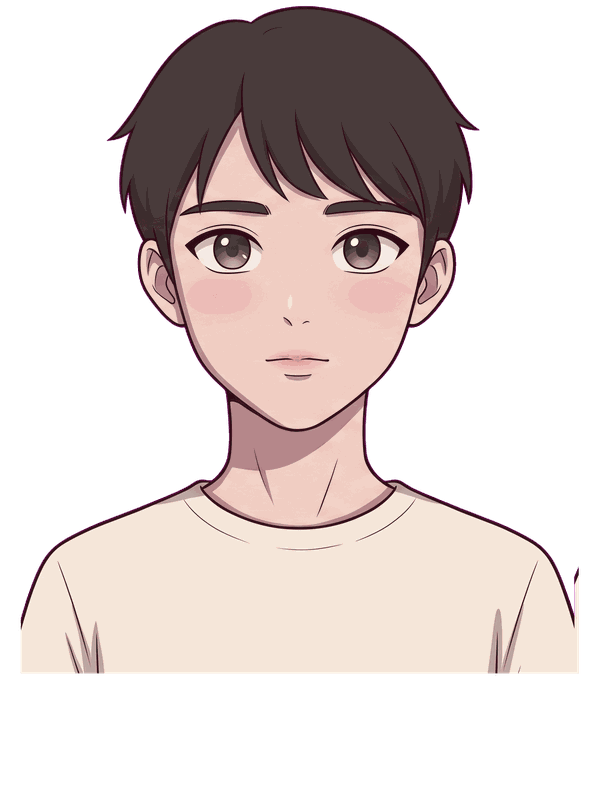
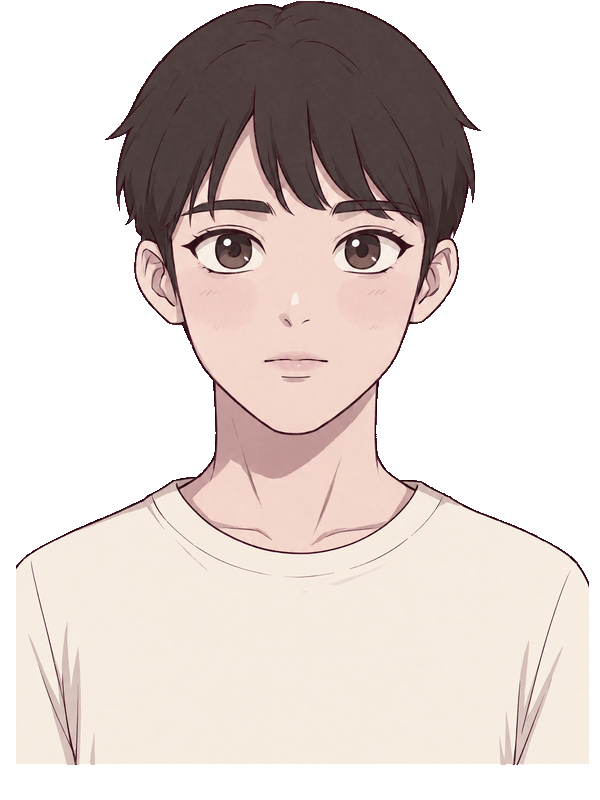
[char] 남 주인공 정본 neutral = 후보 A a(옛 아홉과 같은 얼굴 자리·크기 · 옛 판 _old) · fit_portrait --match-min · 주문 ① 모자란 낯 여섯 ② 장난감 턴어라운드(팔 45° · 틈)

diff --git a/tools/char/fit_portrait.py b/tools/char/fit_portrait.py
@@ -120,7 +120,7 @@ def clear_pockets(rgb, bg, tol):
     return out
 
 
-def crop_to_match(im, orig_path):
+def crop_to_match(im, orig_path, min_ncc=0.9):
     """«옷만 바꾼 같은 낯»을 원래 초상과 얼굴 자리·크기가 같게 자른다 — --match <원래 초상.png> 일 때만.
 
     ★ 2026-10-09 앞치마 판 낯 넷: Higgsfield 가 몸을 더 넣어 얼굴이 원래보다 2~10% 작게 왔다.
@@ -153,8 +153,9 @@ def crop_to_match(im, orig_path):
     x, y, w, h = (lx - bx0) / s, (ly - by0) / s, ow / s, oh / s
     print('얼굴 맞춤(%s): NCC %.3f · 배율 %.3f(폭 맞춤 %.3f → 얼굴 %+.0f%%) · 자를 네모 x %.0f..%.0f y %.0f..%.0f'
           % (os.path.basename(orig_path), sc, s, base, (s / base - 1) * 100, x, x + w, y, y + h))
-    if sc < 0.9:
-        raise SystemExit('⛔ 얼굴이 원래 초상과 안 겹친다(NCC %.3f < 0.9) — 표정이 다른 그림인가?' % sc)
+    # 10-10 문턱을 열쇠로 — 옷만 바꾼 같은 그림은 0.95 언저리, «같은 사람을 새로 그린» 판(남 정본 A)은 0.84 언저리였다
+    if sc < min_ncc:
+        raise SystemExit('⛔ 얼굴이 원래 초상과 안 겹친다(NCC %.3f < %.2f) — 표정이 다른 그림인가? 같은 사람을 새로 그린 판이면 --match-min 으로 낮춘다' % (sc, min_ncc))
     canvas = Image.new('RGB', (round(w), round(h)), (255, 255, 255))
     canvas.paste(im, (round(-x), round(-y)))
     return canvas.resize((ow, oh), Image.LANCZOS), (ow, oh)
@@ -231,7 +232,8 @@ def main():
     im = Image.open(src).convert('RGB')
     match = sys.argv[sys.argv.index('--match') + 1] if '--match' in sys.argv else None
     if match:
-        im, (ow, oh) = crop_to_match(im, match)
+        mn = float(sys.argv[sys.argv.index('--match-min') + 1]) if '--match-min' in sys.argv else 0.9
+        im, (ow, oh) = crop_to_match(im, match, mn)
     rgb = np.asarray(im)
     bg = edge_background(rgb, tol)
     print('배경 퍼뜨림 허용 %d' % tol)

diff --git a/docs/handoff/char-male-hero-plan-20261010.md b/docs/handoff/char-male-hero-plan-20261010.md
@@ -500,3 +500,173 @@
 - 턴어라운드 고름 → 칸 넷(같은 정사각 · 같은 축척 · 같은 바닥선 — 몬이 b 자르기와 같은 법) → Meshy multi-image · Tripo multiview 두 판 → G2(g2_check) → 고른 판 앞=+Z(glb_face_z) → rig 1.4 + 동작 13(Meshy 계정 44) → build_hero_unity 와 같은 길(머리 무게 · 색 · 클립 · extras) → `hero2_m.glb`
 - 옷 일곱: hero2 와 같은 길(retexture → apply_outfit_tex) — 남 몸 UV 가 따로라 `outfit/m/*.jpg`
 - 게임에 들일 때(core 66dfb4c0 길): `hero2_m.glb` 의 scene extras 에 **`hero: 'hero2_m'`** 을 박는다 — v2_hero setOutfit 이 `hero2` · `hero2_m` 만 옷을 입힌다(1180e092). 그다음 v2_hero 의 `pickByGender({ f: …, m: null })` 두 곳(몸 · 옷 표)의 m 칸만 채운다. 옷 그림 캐시는 이미 «성별:이름» 열쇠다
+
+
+## 5. 정해진 판 — 후보 A a (총괄 10-10 · 박사님 «니가 잘 골라») · 지금 돌릴 것
+
+- 고름: **A a** — 옛 남 초상과 얼굴 겹침(NCC) a 0.840 · b 0.844 로 비김 ⇒ 눈으로: a 의 둥근 머리·가운데 앞머리가 옛 happy·proud·worry 와 맞고 b 는 정수리가 높고 뾰족하다
+- 정본: `assets/characters/portraits/portrait_jachwi_m_neutral.png` 를 A a 로 갈았다 — `fit_portrait --match <옛 neutral> --match-min 0.8` 로 **옛 아홉과 같은 얼굴 자리·크기**(눈·코·입 높이가 같은 줄 · 그림으로 봄). 옛 판은 `_old/portrait_jachwi_m_neutral_v1.png`
+  - `--match-min` 을 새로 열었다: 옷만 바꾼 같은 그림은 0.95 언저리, 같은 사람을 새로 그린 판은 0.84 언저리였다(기본 0.9 그대로)
+- 옛 남 초상 여덟(happy·cry·numb·proud·surprise·think·tired·worry)은 그대로 쓴다(core 66dfb4c0 길 · 'm' 이면 jachwi_m_{키})
+
+### ① 모자란 남 낯 여섯 (count 1 · ≈54)
+- image 1 = 고른 A a 원본(`assets/characters/portraits/_hf/portrait_jachwi_m_neutral_candA_a.jpg`) · 받으면 `fit_portrait --match portrait_jachwi_m_neutral.png --match-min 0.7` — 다른 표정이라 겹침이 낮아도 같은 원본에서 나와 틀이 같다(0.7 밑이면 멈춤 · 눈으로 볼 것)
+- 검수: ① 얼굴·머리가 A a 그대로 ② 표정 뜻(여 같은 키와 같은 뜻) ③ 손가락 ④ winter 는 크림 니트·빨간 목도리 · apron 은 세이지 앞치마
+
+```json
+[
+ {
+  "name": "portrait_jachwi_m_curious",
+  "save_as": "assets/characters/portraits/_hf/portrait_jachwi_m_curious.png",
+  "then": "python tools/char/fit_portrait.py <받은.png> assets/characters/portraits/portrait_jachwi_m_curious.png --match assets/characters/portraits/portrait_jachwi_m_neutral.png --match-min 0.7 --tol 8 --pockets",
+  "tool": "generate_image",
+  "params": {
+   "model": "gpt_image_2_5",
+   "aspect_ratio": "3:4",
+   "quality": "max",
+   "resolution": "2k",
+   "count": 1,
+   "prompt": "The SAME young man as image 1 - same face, same short very dark brown hair with the soft fringe, same framing and size, same flat 2D anime art style - now with this expression: curious, head tilted slightly, an asking look. Plain pure white background, no text.",
+   "medias": [
+    {
+     "value": "assets/characters/portraits/_hf/portrait_jachwi_m_neutral_candA_a.jpg",
+     "role": "image_references"
+    }
+   ]
+  }
+ },
+ {
+  "name": "portrait_jachwi_m_scissors",
+  "save_as": "assets/characters/portraits/_hf/portrait_jachwi_m_scissors.png",
+  "then": "python tools/char/fit_portrait.py <받은.png> assets/characters/portraits/portrait_jachwi_m_scissors.png --match assets/characters/portraits/portrait_jachwi_m_neutral.png --match-min 0.7 --tol 8 --pockets",
+  "tool": "generate_image",
+  "params": {
+   "model": "gpt_image_2_5",
+   "aspect_ratio": "3:4",
+   "quality": "max",
+   "resolution": "2k",
+   "count": 1,
+   "prompt": "The SAME young man as image 1 - same face, same short very dark brown hair with the soft fringe, same framing and size, same flat 2D anime art style - now with this expression: holding small garden scissors near his chin, pondering, eyes to the side. Plain pure white background, no text.",
+   "medias": [
+    {
+     "value": "assets/characters/portraits/_hf/portrait_jachwi_m_neutral_candA_a.jpg",
+     "role": "image_references"
+    }
+   ]
+  }
+ },
+ {
+  "name": "portrait_jachwi_m_bulb",
+  "save_as": "assets/characters/portraits/_hf/portrait_jachwi_m_bulb.png",
+  "then": "python tools/char/fit_portrait.py <받은.png> assets/characters/portraits/portrait_jachwi_m_bulb.png --match assets/characters/portraits/portrait_jachwi_m_neutral.png --match-min 0.7 --tol 8 --pockets",
+  "tool": "generate_image",
+  "params": {
+   "model": "gpt_image_2_5",
+   "aspect_ratio": "3:4",
+   "quality": "max",
+   "resolution": "2k",
+   "count": 1,
+   "prompt": "The SAME young man as image 1 - same face, same short very dark brown hair with the soft fringe, same framing and size, same flat 2D anime art style - now with this expression: surprised, eyes wide, holding a small round brown corm (bulb) up in his palm. Plain pure white background, no text.",
+   "medias": [
+    {
+     "value": "assets/characters/portraits/_hf/portrait_jachwi_m_neutral_candA_a.jpg",
+     "role": "image_references"
+    }
+   ]
+  }
+ },
+ {
+  "name": "portrait_jachwi_m_beam",
+  "save_as": "assets/characters/portraits/_hf/portrait_jachwi_m_beam.png",
+  "then": "python tools/char/fit_portrait.py <받은.png> assets/characters/portraits/portrait_jachwi_m_beam.png --match assets/characters/portraits/portrait_jachwi_m_neutral.png --match-min 0.7 --tol 8 --pockets",
+  "tool": "generate_image",
+  "params": {
+   "model": "gpt_image_2_5",
+   "aspect_ratio": "3:4",
+   "quality": "max",
+   "resolution": "2k",
+   "count": 1,
+   "prompt": "The SAME young man as image 1 - same face, same short very dark brown hair with the soft fringe, same framing and size, same flat 2D anime art style - now with this expression: beaming with pride, both hands clasped at his chest, eyes slightly wet. Plain pure white background, no text.",
+   "medias": [
+    {
+     "value": "assets/characters/portraits/_hf/portrait_jachwi_m_neutral_candA_a.jpg",
+     "role": "image_references"
+    }
+   ]
+  }
+ },
+ {
+  "name": "portrait_jachwi_m_winter",
+  "save_as": "assets/characters/portraits/_hf/portrait_jachwi_m_winter.png",
+  "then": "python tools/char/fit_portrait.py <받은.png> assets/characters/portraits/portrait_jachwi_m_winter.png --match assets/characters/portraits/portrait_jachwi_m_neutral.png --match-min 0.7 --tol 8 --pockets",
+  "tool": "generate_image",
+  "params": {
+   "model": "gpt_image_2_5",
+   "aspect_ratio": "3:4",
+   "quality": "max",
+   "resolution": "2k",
+   "count": 1,
+   "prompt": "The SAME young man as image 1 - same face, same short very dark brown hair with the soft fringe, same framing and size, same flat 2D anime art style - now with this expression: worried, wearing a cream knit sweater and a red scarf, looking down gently. Plain pure white background, no text.",
+   "medias": [
+    {
+     "value": "assets/characters/portraits/_hf/portrait_jachwi_m_neutral_candA_a.jpg",
+     "role": "image_references"
+    }
+   ]
+  }
+ },
+ {
+  "name": "portrait_jachwi_m_apron",
+  "save_as": "assets/characters/portraits/_hf/portrait_jachwi_m_apron.png",
+  "then": "python tools/char/fit_portrait.py <받은.png> assets/characters/portraits/portrait_jachwi_m_apron.png --match assets/characters/portraits/portrait_jachwi_m_neutral.png --match-min 0.7 --tol 8 --pockets",
+  "tool": "generate_image",
+  "params": {
+   "model": "gpt_image_2_5",
+   "aspect_ratio": "3:4",
+   "quality": "max",
+   "resolution": "2k",
+   "count": 1,
+   "prompt": "The SAME young man as image 1 - same face, same short very dark brown hair with the soft fringe, same framing and size, same flat 2D anime art style - now with this expression: a calm confident smile, wearing a plain sage-green work apron over the cream tee. Plain pure white background, no text.",
+   "medias": [
+    {
+     "value": "assets/characters/portraits/_hf/portrait_jachwi_m_neutral_candA_a.jpg",
+     "role": "image_references"
+    }
+   ]
+  }
+ }
+]
+```
+
+### ② 장난감 턴어라운드 (16:9 · 4k · count 2 · ≈30)
+- image 1 = A a 원본 · image 2 = hero2 장난감 기준 그림. ★ 팔 45° · 몸통과 틈 · 머리가 어깨·팔에 안 닿음(G2 «머리–팔 2%» 가 리그 성패를 미리 말한다 — §4 첫 자)
+- 검수: 네 칸이 같은 사람·같은 축척 · 신발 앞뒤가 맞음(여 판 a 는 뒤에서 뒤꿈치가 트였다) · 팔과 몸통 사이 흰 틈
+
+```json
+{
+ "name": "sheet_hero_m_turnaround_toy",
+ "save_as": "assets/characters/sheets/_hf/sheet_hero_m_turnaround_toy.png",
+ "tool": "generate_image",
+ "then": "char: 칸 넷을 같은 정사각 · 같은 축척 · 같은 바닥선으로 잘라 assets/characters/sheets/_hf/crops/hero_m_<a|b>_{front,side,back,three_quarter}.png (몬이 b 자르기와 같은 법)",
+ "params": {
+  "model": "gpt_image_2_5",
+  "aspect_ratio": "16:9",
+  "quality": "max",
+  "resolution": "4k",
+  "count": 2,
+  "prompt": "Character turnaround sheet on a plain pure white background: FRONT, LEFT SIDE, BACK and 3/4 views of the SAME character side by side, full body, same scale, A-pose with the arms clearly away from the body (about 45 degrees, a clear visible gap between the arms and the torso, palms in), even flat lighting, no shadows, no text. The young man as a chibi 3D toy figure exactly like image 2 (same head-to-body ratio, same soft toy shading), with the face and the short hair of image 1 (very dark chocolate-brown hair, clearly brown, not black; the hair does not touch the shoulders or arms); cream round-neck tee, grey joggers, grey-white shoes. identical original character on all views, same proportions and colors in every view, single subject only, no other people, no props, no furniture, no background objects, pure white seamless background, no text, no labels, no watermark, no frame borders",
+  "medias": [
+   {
+    "value": "assets/characters/portraits/_hf/portrait_jachwi_m_neutral_candA_a.jpg",
+    "role": "image_references"
+   },
+   {
+    "value": "assets/v2/char/_src/hero2/img_01a11e70-223b-705a-b82f-1a80de034747.png",
+    "role": "image_references"
+   }
+  ]
+ }
+}
+```
+
+### ③~⑤ (총괄) — 3D Meshy·Tripo 두 판 → G2(g2_check · 2% 줄 먼저 · 짧은 머리라 얼굴 쪽은 그림으로) → 고른 판 glb_face_z → Higgsfield 3d_rigging(키 1.4 · 동작 13 같은 번호) → char: build_hero_unity 와 같은 길로 hero2_m.glb(extras.hero='hero2_m') · 옷은 기본(크림 티·회색 조거)만 — 옷 일곱은 미룸
